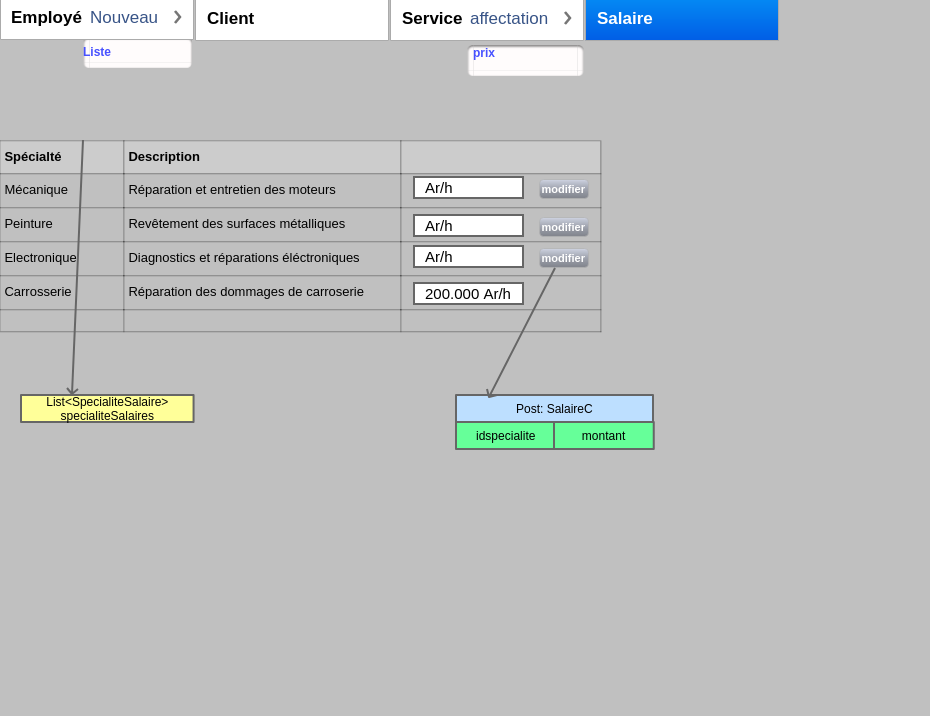
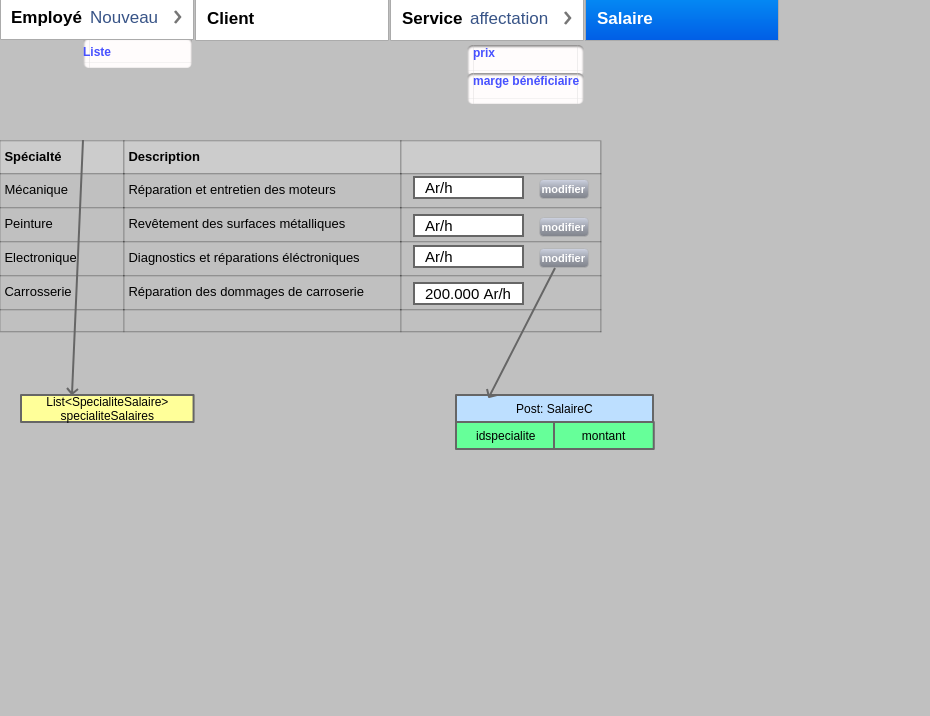
update conception 19/01

Changed region(s): [[0.4989, 0.0922, 0.6237, 0.1536]]

diff --git a/conception/metier.html b/conception/metier.html
@@ -5,7 +5,11 @@
 	<title></title>
 	<meta name="generator" content="LibreOffice 7.3.7.2 (Linux)"/>
 	<meta name="created" content="2023-01-17T16:00:40.041415322"/>
+<<<<<<< Updated upstream
 	<meta name="changed" content="2023-01-17T16:18:13.262707763"/>
+=======
+	<meta name="changed" content="2023-01-19T15:53:25.385682574"/>
+>>>>>>> Stashed changes
 	<style type="text/css">
 		@page { size: 8.5in 11in; margin: 0.79in }
 		p { line-height: 115%; margin-bottom: 0.1in; background: transparent }
@@ -21,8 +25,15 @@
 		h3.western { font-family: "Liberation Serif", serif; font-size: 14pt; font-weight: bold }
 		h3.cjk { font-family: "Noto Serif CJK SC"; font-size: 14pt; font-weight: bold }
 		h3.ctl { font-family: "Lohit Devanagari"; font-size: 14pt; font-weight: bold }
+<<<<<<< Updated upstream
 		a:link { color: #000080; so-language: zxx; text-decoration: underline }
 		a:visited { color: #800000; so-language: zxx; text-decoration: underline }
+=======
+		pre { background: transparent }
+		pre.western { font-family: "Liberation Mono", monospace; font-size: 10pt }
+		pre.cjk { font-family: "Noto Sans Mono CJK SC", monospace; font-size: 10pt }
+		pre.ctl { font-family: "Liberation Mono", monospace; font-size: 10pt }
+>>>>>>> Stashed changes
 		code.western { font-family: "Liberation Mono", monospace }
 		code.cjk { font-family: "Noto Sans Mono CJK SC", monospace }
 		code.ctl { font-family: "Liberation Mono", monospace }
@@ -227,10 +238,18 @@
 		<font color="#000000"><font face="apple-system, BlinkMacSystemFont, Segoe WPC, Segoe UI, system-ui, Ubuntu, Droid Sans, sans-serif"><font size="2" style="font-size: 10pt"><span style="background: transparent">public
 		Specialite findById(int idspecialite): retourner l'employé dont
 		id=idspecialite</span></font></font></font></p>
+<<<<<<< Updated upstream
 		<li><p style="orphans: 2; widows: 2"><span style="font-variant: normal"><font color="#000000"><font face="apple-system, BlinkMacSystemFont, Segoe WPC, Segoe UI, system-ui, Ubuntu, Droid Sans, sans-serif"><font size="2" style="font-size: 10pt"><span style="letter-spacing: normal"><span style="font-style: normal"><span style="font-weight: normal"><span style="background: transparent">public
 		List&lt;Specialite&gt; findByEmp(int idemp): prendre la liste des
 		spécialités dont idemploye=idemp dans la vue&nbsp;</span></span></span></span></font></font></font></span><code class="western"><span style="font-variant: normal"><font color="#000000"><font face="var vscode-editor-font-family, SF Mono, Monaco, Menlo, Consolas, Ubuntu Mono, Liberation Mono, DejaVu Sans Mono, Courier New, monospace"><font size="2" style="font-size: 10pt"><span style="letter-spacing: normal"><span style="font-style: normal"><span style="font-weight: normal"><span style="background: transparent">v_specialite_employe</span></span></span></span></font></font></font></span></code></p>
 		<li><p style="orphans: 2; widows: 2"><span style="font-variant: normal"><font color="#000000"><font face="apple-system, BlinkMacSystemFont, Segoe WPC, Segoe UI, system-ui, Ubuntu, Droid Sans, sans-serif"><font size="2" style="font-size: 10pt"><span style="letter-spacing: normal"><span style="font-style: normal"><span style="font-weight: normal"><span style="background: transparent">public
+=======
+		<li><p style="font-variant: normal; letter-spacing: normal; font-style: normal; font-weight: normal; orphans: 2; widows: 2">
+		<font color="#c9211e"><font face="apple-system, BlinkMacSystemFont, Segoe WPC, Segoe UI, system-ui, Ubuntu, Droid Sans, sans-serif"><font size="2" style="font-size: 10pt"><span style="background: transparent">public
+		List&lt;Specialite&gt; findByEmp(int idemp): prendre la liste des
+		spécialités dont idemploye=idemp</span></font></font></font></p>
+		<li><p style="orphans: 2; widows: 2"><span style="font-variant: normal"><font color="#c9211e"><font face="apple-system, BlinkMacSystemFont, Segoe WPC, Segoe UI, system-ui, Ubuntu, Droid Sans, sans-serif"><font size="2" style="font-size: 10pt"><span style="letter-spacing: normal"><span style="font-style: normal"><span style="font-weight: normal"><span style="background: transparent">public
+>>>>>>> Stashed changes
 		List&lt;Specialite&gt; findNotInEmp(int idemp): prendre toutes les
 		données de la table&nbsp;</span></span></span></span></font></font></font></span><code class="western"><span style="font-variant: normal"><font color="#000000"><font face="var vscode-editor-font-family, SF Mono, Monaco, Menlo, Consolas, Ubuntu Mono, Liberation Mono, DejaVu Sans Mono, Courier New, monospace"><font size="2" style="font-size: 10pt"><span style="letter-spacing: normal"><span style="font-style: normal"><span style="font-weight: normal"><span style="background: transparent">Specialite</span></span></span></span></font></font></font></span></code><span style="font-variant: normal"><font color="#000000"><font face="apple-system, BlinkMacSystemFont, Segoe WPC, Segoe UI, system-ui, Ubuntu, Droid Sans, sans-serif"><font size="2" style="font-size: 10pt"><span style="letter-spacing: normal"><span style="font-style: normal"><span style="font-weight: normal"><span style="background: transparent">&nbsp;qui
 		n'est pas dans la table&nbsp;</span></span></span></span></font></font></font></span><code class="western"><span style="font-variant: normal"><font color="#000000"><font face="var vscode-editor-font-family, SF Mono, Monaco, Menlo, Consolas, Ubuntu Mono, Liberation Mono, DejaVu Sans Mono, Courier New, monospace"><font size="2" style="font-size: 10pt"><span style="letter-spacing: normal"><span style="font-style: normal"><span style="font-weight: normal"><span style="background: transparent">SpecialiteEmploye</span></span></span></span></font></font></font></span></code><span style="font-variant: normal"><font color="#000000"><font face="apple-system, BlinkMacSystemFont, Segoe WPC, Segoe UI, system-ui, Ubuntu, Droid Sans, sans-serif"><font size="2" style="font-size: 10pt"><span style="letter-spacing: normal"><span style="font-style: normal"><span style="font-weight: normal"><span style="background: transparent">&nbsp;dont
@@ -506,6 +525,23 @@
 		findAll(): prendre la liste de toutes les données de la
 		table&nbsp;</span></span></span></span></font></font></font></span><code class="western"><span style="font-variant: normal"><font color="#000000"><font face="var vscode-editor-font-family, SF Mono, Monaco, Menlo, Consolas, Ubuntu Mono, Liberation Mono, DejaVu Sans Mono, Courier New, monospace"><font size="2" style="font-size: 10pt"><span style="letter-spacing: normal"><span style="font-style: normal"><span style="font-weight: normal"><span style="background: transparent">CategorieService</span></span></span></span></font></font></font></span></code></p>
 	</ul>
+	<li><p style="orphans: 2; widows: 2; margin-bottom: 0in"><code class="western"><span style="font-variant: normal"><font color="#000000"><font face="apple-system, BlinkMacSystemFont, Segoe WPC, Segoe UI, system-ui, Ubuntu, Droid Sans, sans-serif"><font size="2" style="font-size: 10pt"><span style="letter-spacing: normal"><span style="font-style: normal"><span style="font-weight: normal"><span style="background: transparent">MargeBeneficiaire</span></span></span></span></font></font></font></span></code></p>
+</ul>
+<ul>
+	<ul>
+		<li><p style="orphans: 2; widows: 2; margin-bottom: 0in"><span style="font-variant: normal"><font color="#ff0000"><font face="apple-system, BlinkMacSystemFont, Segoe WPC, Segoe UI, system-ui, Ubuntu, Droid Sans, sans-serif"><font size="2" style="font-size: 10pt"><span style="letter-spacing: normal"><span style="font-style: normal"><span style="font-weight: normal"><span style="background: transparent">MargeBeneficiaire
+		getByService(idserv): prendre les données de la
+		table&nbsp;</span></span></span></span></font></font></font></span><code class="western"><span style="font-variant: normal"><font color="#ff0000"><font face="var vscode-editor-font-family, SF Mono, Monaco, Menlo, Consolas, Ubuntu Mono, Liberation Mono, DejaVu Sans Mono, Courier New, monospace"><font size="2" style="font-size: 10pt"><span style="letter-spacing: normal"><span style="font-style: normal"><span style="font-weight: normal"><span style="background: transparent">MargeBeneficiaire</span></span></span></span></font></font></font></span></code><span style="font-variant: normal"><font color="#ff0000"><font face="apple-system, BlinkMacSystemFont, Segoe WPC, Segoe UI, system-ui, Ubuntu, Droid Sans, sans-serif"><font size="2" style="font-size: 10pt"><span style="letter-spacing: normal"><span style="font-style: normal"><span style="font-weight: normal"><span style="background: transparent">&nbsp;dont
+		idservice=idserv</span></span></span></span></font></font></font></span></p>
+		<pre class="western" style="orphans: 2; widows: 2; margin-bottom: 0.1in; border: none; padding: 0in"><code class="western"><span style="font-variant: normal"><font color="#ff0000"><font face="var vscode-editor-font-family, SF Mono, Monaco, Menlo, Consolas, Ubuntu Mono, Liberation Mono, DejaVu Sans Mono, Courier New, monospace"><font size="2" style="font-size: 10pt"><span style="letter-spacing: normal"><span style="font-style: normal"><span style="font-weight: normal"><span style="background: transparent">select * from margebeneficiaire where idservice=idserv order by datemodification desc limit 1</span></span></span></span></font></font></font></span></code></pre>
+		<li><p style="orphans: 2; widows: 2; margin-bottom: 0in"><span style="font-variant: normal"><font color="#ff0000"><font face="apple-system, BlinkMacSystemFont, Segoe WPC, Segoe UI, system-ui, Ubuntu, Droid Sans, sans-serif"><font size="2" style="font-size: 10pt"><span style="letter-spacing: normal"><span style="font-style: normal"><span style="font-weight: normal"><span style="background: transparent">void
+		create(): insérer dans la table&nbsp;</span></span></span></span></font></font></font></span><code class="western"><span style="font-variant: normal"><font color="#ff0000"><font face="var vscode-editor-font-family, SF Mono, Monaco, Menlo, Consolas, Ubuntu Mono, Liberation Mono, DejaVu Sans Mono, Courier New, monospace"><font size="2" style="font-size: 10pt"><span style="letter-spacing: normal"><span style="font-style: normal"><span style="font-weight: normal"><span style="background: transparent">MargeBeneficiaire</span></span></span></span></font></font></font></span></code></p>
+	</ul>
+</ul>
+<ul>
+	<ul>
+		<li><p style="orphans: 2; widows: 2; margin-bottom: 0in"></p>
+	</ul>
 	<li><p style="font-variant: normal; letter-spacing: normal; font-style: normal; font-weight: normal; orphans: 2; widows: 2">
 	<font color="#000000"><font face="apple-system, BlinkMacSystemFont, Segoe WPC, Segoe UI, system-ui, Ubuntu, Droid Sans, sans-serif"><font size="2" style="font-size: 10pt"><span style="background: transparent">Service</span></font></font></font></p>
 	<ul>
@@ -513,6 +549,17 @@
 		<font color="#000000"><font face="apple-system, BlinkMacSystemFont, Segoe WPC, Segoe UI, system-ui, Ubuntu, Droid Sans, sans-serif"><font size="2" style="font-size: 10pt"><span style="background: transparent">List&lt;Service&gt;
 		findByCategorie(int idctg): liste de toutes les services dont
 		idcategorie=idctg</span></font></font></font></p>
+		<li><p style="font-variant: normal; letter-spacing: normal; font-style: normal; font-weight: normal; line-height: 100%; orphans: 2; widows: 2; margin-bottom: 0in; background: transparent">
+		<font color="#ff0000"><font face="Droid Sans Mono, monospace, monospace"><font size="2" style="font-size: 10pt"><span style="background: transparent">List\&lt;Service&gt;
+		findAll(): liste de toutes les services</span></font></font></font></p>
+		<ul>
+			<li><p style="font-variant: normal; letter-spacing: normal; font-style: normal; font-weight: normal; line-height: 100%; orphans: 2; widows: 2; margin-bottom: 0in; background: transparent">
+			<font color="#ff0000"><font face="Droid Sans Mono, monospace, monospace"><font size="2" style="font-size: 10pt"><span style="background: transparent">setMargeBeneficiaire(new
+			MargeBeneficiaire().getByService(idservice)) : rehefa misesy amle
+			liste services</span></font></font></font></p>
+			<p style="font-variant: normal; letter-spacing: normal; font-style: normal; font-weight: normal; orphans: 2; widows: 2; margin-bottom: 0in">
+			</p>
+		</ul>
 	</ul>
 	<li><p style="font-variant: normal; letter-spacing: normal; font-style: normal; font-weight: normal; orphans: 2; widows: 2">
 	<font color="#000000"><font face="apple-system, BlinkMacSystemFont, Segoe WPC, Segoe UI, system-ui, Ubuntu, Droid Sans, sans-serif"><font size="2" style="font-size: 10pt"><span style="background: transparent">SpecialiteEmploye</span></font></font></font></p>
@@ -536,13 +583,25 @@
 		<font color="#000000"><font face="apple-system, BlinkMacSystemFont, Segoe WPC, Segoe UI, system-ui, Ubuntu, Droid Sans, sans-serif"><font size="2" style="font-size: 10pt"><span style="background: transparent">create():
 		insertion de salaire pour une spécialité</span></font></font></font></p>
 	</ul>
-	<li><p style="font-variant: normal; letter-spacing: normal; font-style: normal; font-weight: normal; orphans: 2; widows: 2">
-	<font color="#000000"><font face="apple-system, BlinkMacSystemFont, Segoe WPC, Segoe UI, system-ui, Ubuntu, Droid Sans, sans-serif"><font size="2" style="font-size: 10pt"><span style="background: transparent">PrixService</span></font></font></font></p>
+</ul>
+<ul>
+	<li><p style="orphans: 2; widows: 2"><span style="font-variant: normal"><font color="#000000"><font face="apple-system, BlinkMacSystemFont, Segoe WPC, Segoe UI, system-ui, Ubuntu, Droid Sans, sans-serif"><font size="2" style="font-size: 10pt"><span style="letter-spacing: normal"><span style="font-style: normal"><span style="font-weight: normal"><span style="background: transparent">PrixService</span></span></span></span></font></font></font></span></p>
 	<ul>
 		<li><p style="font-variant: normal; letter-spacing: normal; font-style: normal; font-weight: normal; orphans: 2; widows: 2; margin-bottom: 0in">
+<<<<<<< Updated upstream
 		<font color="#000000"><font face="apple-system, BlinkMacSystemFont, Segoe WPC, Segoe UI, system-ui, Ubuntu, Droid Sans, sans-serif"><font size="2" style="font-size: 10pt"><span style="background: transparent">List&lt;PrixService&gt;
+=======
+		<font color="#ff0000"><font face="apple-system, BlinkMacSystemFont, Segoe WPC, Segoe UI, system-ui, Ubuntu, Droid Sans, sans-serif"><font size="2" style="font-size: 10pt"><span style="background: transparent">List&lt;PrixService&gt;
+>>>>>>> Stashed changes
 		findByPrixCtg(String ctg): liste de toutes les données de la vue
-		(view) v_prix_service dont categorie_prix = ctg</span></font></font></font></p>
+		(view)... dont categorie_prix = ctg</span></font></font></font></p>
+		<ul>
+			<li><p style="font-variant: normal; letter-spacing: normal; font-style: normal; font-weight: normal; orphans: 2; widows: 2; margin-bottom: 0in">
+			<font color="#ff0000"><font face="apple-system, BlinkMacSystemFont, Segoe WPC, Segoe UI, system-ui, Ubuntu, Droid Sans, sans-serif"><font size="2" style="font-size: 10pt"><span style="background: transparent">Ilay
+			ctg ataovy anarana view: (charge_salariale, charge_materiel ,
+			charge_totale , prix_vente , benefice)</span></font></font></font></p>
+		</ul>
+		<pre class="western" style="orphans: 2; widows: 2; margin-bottom: 0.1in; border: none; padding: 0in"><code class="western"><span style="font-variant: normal"><font color="#ff0000"><font face="var vscode-editor-font-family, SF Mono, Monaco, Menlo, Consolas, Ubuntu Mono, Liberation Mono, DejaVu Sans Mono, Courier New, monospace"><font size="2" style="font-size: 10pt"><span style="letter-spacing: normal"><span style="font-style: normal"><span style="font-weight: normal"><span style="background: transparent">Select * from ctg;</span></span></span></span></font></font></font></span></code></pre>
 	</ul>
 </ul>
 <p><br/>

diff --git a/conception/index.html b/conception/index.html
@@ -1,0 +1,2 @@
+<html xmlns="http://www.w3.org/1999/xhtml" xmlns:p="http://www.evolus.vn/Namespace/Pencil" xmlns:html="http://www.w3.org/1999/xhtml"><head><meta http-equiv="Content-Type" content="text/html; charset=UTF-8" />
+<title>front</title><link rel="stylesheet" href="Resources/SampleStyle.css" /></head><body><h1 id="documentTitle">front</h1><p id="documentMetadata">Exported at: Thu Jan 19 2023 15:54:58 GMT+0300 (East Africa Time)</p><div class="Page" id="responsable_page"><h2>Responsable</h2><div class="ImageContainer"><img src="pages/responsable.png" width="NaN" height="NaN" usemap="#map_responsable" /></div><map name="map_responsable"><area shape="rect" coords="466.6000061035156,87,582.5,117.800003051758" href="#marge_beneficiaire_page" title="Go to page 'Marge beneficiaire'" /><area shape="rect" coords="584.5,0.5,777.5,44.5" href="#salaire_page" title="Go to page 'salaire'" /><area shape="rect" coords="466.6000061035156,49,582.5,79.8000030517578" href="#prix_service_page" title="Go to page 'prix service'" /><area shape="rect" coords="389.5,0.5,582.5,44.5" href="#affectation_service_page" title="Go to page 'affectation service'" /><area shape="rect" coords="194.5,0.5,387.5,44.5" href="#client_page" title="Go to page 'Client'" /><area shape="rect" coords="-0.5,-0.5,192.5,43.5" href="#newemp_page" title="Go to page 'new_emp'" /><area shape="rect" coords="82.60000610351562,41,191,71.8000030517578" href="#listemp_page" title="Go to page 'list_emp'" /></map></div><div class="Page" id="login_page"><h2>login</h2><div class="ImageContainer"><img src="pages/login.png" width="NaN" height="NaN" usemap="#map_login" /></div><map name="map_login"><area shape="rect" coords="108.5,446.5,362.75,486.5" href="#newemp_page" title="Go to page 'new_emp'" /></map></div><div class="Page" id="newemp_page"><h2>new_emp</h2><div class="ImageContainer"><img src="pages/newemp.png" width="NaN" height="NaN" usemap="#map_newemp" /></div><map name="map_newemp"><area shape="rect" coords="460.6000061035156,63,576.5,93.8000030517578" href="#marge_beneficiaire_page" title="Go to page 'Marge beneficiaire'" /><area shape="rect" coords="580.5,1.5,773.5,45.5" href="#salaire_page" title="Go to page 'salaire'" /><area shape="rect" coords="462.60003662109375,50,578.500061035156,80.8000030517578" href="#prix_service_page" title="Go to page 'prix service'" /><area shape="rect" coords="385.5,1.5,578.5,45.5" href="#affectation_service_page" title="Go to page 'affectation service'" /><area shape="rect" coords="190.5,1.5,383.5,45.5" href="#client_page" title="Go to page 'Client'" /><area shape="rect" coords="78.60000610351562,42,187,72.8000030517578" href="#listemp_page" title="Go to page 'list_emp'" /><area shape="rect" coords="14.5,535.5,119.75,558.5" href="#listemp_page" title="Go to page 'list_emp'" /></map></div><div class="Page" id="listemp_page"><h2>list_emp</h2><div class="ImageContainer"><img src="pages/listemp.png" width="NaN" height="NaN" usemap="#map_listemp" /></div><map name="map_listemp"><area shape="rect" coords="462.6000061035156,92,578.5,122.800003051758" href="#marge_beneficiaire_page" title="Go to page 'Marge beneficiaire'" /><area shape="rect" coords="581.5,1.5,774.5,45.5" href="#salaire_page" title="Go to page 'salaire'" /><area shape="rect" coords="463.6000061035156,50,579.5,80.8000030517578" href="#prix_service_page" title="Go to page 'prix service'" /><area shape="rect" coords="386.5,1.5,579.5,45.5" href="#affectation_service_page" title="Go to page 'affectation service'" /><area shape="rect" coords="191.5,1.5,384.5,45.5" href="#client_page" title="Go to page 'Client'" /><area shape="rect" coords="79.60000610351562,42,188,72.8000030517578" href="#newemp_page" title="Go to page 'new_emp'" /><area shape="rect" coords="456,176,494,194" href="#detailsemp_page" title="Go to page 'details_emp'" /></map></div><div class="Page" id="detailsemp_page"><h2>details_emp</h2><div class="ImageContainer"><img src="pages/detailsemp.png" width="NaN" height="NaN" usemap="#map_detailsemp" /></div><map name="map_detailsemp"><area shape="rect" coords="83.60000610351562,37,192,67.8000030517578" href="#newemp_page" title="Go to page 'new_emp'" /><area shape="rect" coords="0.5,-4.5,193.5,39.5" href="#listemp_page" title="Go to page 'list_emp'" /><area shape="rect" coords="585.5,-4.5,778.5,39.5" href="#salaire_page" title="Go to page 'salaire'" /><area shape="rect" coords="467.6000061035156,44,583.5,74.8000030517578" href="#prix_service_page" title="Go to page 'prix service'" /><area shape="rect" coords="390.5,-4.5,583.5,39.5" href="#affectation_service_page" title="Go to page 'affectation service'" /><area shape="rect" coords="195.5,-4.5,388.5,39.5" href="#client_page" title="Go to page 'Client'" /></map></div><div class="Page" id="client_page"><h2>Client</h2><div class="ImageContainer"><img src="pages/client.png" width="NaN" height="NaN" usemap="#map_client" /></div><map name="map_client"><area shape="rect" coords="468.6000061035156,73,584.5,103.800003051758" href="#marge_beneficiaire_page" title="Go to page 'Marge beneficiaire'" /><area shape="rect" coords="580.5,-2.5,773.5,41.5" href="#salaire_page" title="Go to page 'salaire'" /><area shape="rect" coords="462.6000061035156,46,578.5,76.8000030517578" href="#prix_service_page" title="Go to page 'prix service'" /><area shape="rect" coords="385.5,-2.5,578.5,41.5" href="#affectation_service_page" title="Go to page 'affectation service'" /><area shape="rect" coords="190.5,-2.5,383.5,41.5" href="#client_page" title="Go to page 'Client'" /><area shape="rect" coords="-4.5,-3.5,188.5,40.5" href="#newemp_page" title="Go to page 'new_emp'" /><area shape="rect" coords="78.60000610351562,38,187,68.8000030517578" href="#listemp_page" title="Go to page 'list_emp'" /></map></div><div class="Page" id="affectation_service_page"><h2>affectation service</h2><div class="ImageContainer"><img src="pages/affectation_service.png" width="NaN" height="NaN" usemap="#map_affectation_service" /></div><map name="map_affectation_service"><area shape="rect" coords="467.6000061035156,71,583.5,101.800003051758" href="#marge_beneficiaire_page" title="Go to page 'Marge beneficiaire'" /><area shape="rect" coords="585.5,-3.5,778.5,40.5" href="#salaire_page" title="Go to page 'salaire'" /><area shape="rect" coords="467.6000061035156,45,583.5,75.8000030517578" href="#prix_service_page" title="Go to page 'prix service'" /><area shape="rect" coords="390.5,-3.5,583.5,40.5" href="#affectation_service_page" title="Go to page 'affectation service'" /><area shape="rect" coords="195.5,-3.5,388.5,40.5" href="#client_page" title="Go to page 'Client'" /><area shape="rect" coords="0.5,-4.5,193.5,39.5" href="#newemp_page" title="Go to page 'new_emp'" /><area shape="rect" coords="83.60000610351562,37,192,67.8000030517578" href="#listemp_page" title="Go to page 'list_emp'" /></map></div><div class="Page" id="prix_service_page"><h2>prix service</h2><div class="ImageContainer"><img src="pages/prix_service.png" width="NaN" height="NaN" usemap="#map_prix_service" /></div><map name="map_prix_service"><area shape="rect" coords="472.6000061035156,84,588.5,114.800003051758" href="#marge_beneficiaire_page" title="Go to page 'Marge beneficiaire'" /><area shape="rect" coords="640.5,1.5,833.5,45.5" href="#salaire_page" title="Go to page 'salaire'" /><area shape="rect" coords="466.6000061035156,51,582.5,81.8000030517578" href="#affectation_service_page" title="Go to page 'affectation service'" /><area shape="rect" coords="194.5,2.5,387.5,46.5" href="#client_page" title="Go to page 'Client'" /><area shape="rect" coords="-0.5,1.5,192.5,45.5" href="#newemp_page" title="Go to page 'new_emp'" /><area shape="rect" coords="82.60000610351562,43,191,73.8000030517578" href="#listemp_page" title="Go to page 'list_emp'" /></map></div><div class="Page" id="salaire_page"><h2>salaire</h2><div class="ImageContainer"><img src="pages/salaire.png" width="NaN" height="NaN" usemap="#map_salaire" /></div><map name="map_salaire"><area shape="rect" coords="467.6000061035156,73,583.5,103.800003051758" href="#marge_beneficiaire_page" title="Go to page 'Marge beneficiaire'" /><area shape="rect" coords="585.5,-3.5,778.5,40.5" href="#salaire_page" title="Go to page 'salaire'" /><area shape="rect" coords="467.6000061035156,45,583.5,75.8000030517578" href="#prix_service_page" title="Go to page 'prix service'" /><area shape="rect" coords="390.5,-3.5,583.5,40.5" href="#affectation_service_page" title="Go to page 'affectation service'" /><area shape="rect" coords="195.5,-3.5,388.5,40.5" href="#client_page" title="Go to page 'Client'" /><area shape="rect" coords="0.5,-4.5,193.5,39.5" href="#newemp_page" title="Go to page 'new_emp'" /><area shape="rect" coords="83.60000610351562,37,192,67.8000030517578" href="#listemp_page" title="Go to page 'list_emp'" /></map></div><div class="Page" id="marge_beneficiaire_page"><h2>Marge beneficiaire</h2><div class="ImageContainer"><img src="pages/marge_beneficiaire.png" width="NaN" height="NaN" usemap="#map_marge_beneficiaire" /></div><map name="map_marge_beneficiaire"><area shape="rect" coords="455.6000061035156,83,571.5,113.800003051758" href="#prix_service_page" title="Go to page 'prix service'" /><area shape="rect" coords="629.5,1.5,822.5,45.5" href="#salaire_page" title="Go to page 'salaire'" /><area shape="rect" coords="455.6000061035156,51,571.5,81.8000030517578" href="#affectation_service_page" title="Go to page 'affectation service'" /><area shape="rect" coords="183.5,2.5,376.5,46.5" href="#client_page" title="Go to page 'Client'" /><area shape="rect" coords="-11.5,1.5,181.5,45.5" href="#newemp_page" title="Go to page 'new_emp'" /><area shape="rect" coords="71.60000610351562,43,180,73.8000030517578" href="#listemp_page" title="Go to page 'list_emp'" /></map></div></body></html>

diff --git a/conception/database_todo.html b/conception/database_todo.html
@@ -5,14 +5,16 @@
 	<title></title>
 	<meta name="generator" content="LibreOffice 7.3.7.2 (Linux)"/>
 	<meta name="created" content="2023-01-17T16:00:40.041415322"/>
-	<meta name="changed" content="2023-01-17T16:17:48.197671131"/>
+	<meta name="changed" content="2023-01-19T15:56:58.981670680"/>
 	<style type="text/css">
 		@page { size: 8.5in 11in; margin: 0.79in }
-		p { line-height: 115%; margin-bottom: 0.1in; background: transparent }
-		h2 { margin-top: 0.14in; margin-bottom: 0.08in; background: transparent; page-break-after: avoid }
+		p { line-height: 115%; margin-bottom: 0.1in; background: transparent; background: transparent }
+		h2 { margin-top: 0.14in; margin-bottom: 0.08in; background: transparent; background: transparent; page-break-after: avoid }
 		h2.western { font-family: "Liberation Serif", serif; font-size: 18pt; font-weight: bold }
 		h2.cjk { font-family: "Noto Serif CJK SC"; font-size: 18pt; font-weight: bold }
 		h2.ctl { font-family: "Lohit Devanagari"; font-size: 18pt; font-weight: bold }
+		a:link { color: #000080; so-language: zxx; text-decoration: underline }
+		a:visited { color: #800000; so-language: zxx; text-decoration: underline }
 	</style>
 </head>
 <body lang="en-US" link="#000080" vlink="#800000" dir="ltr"><h2 class="western" style="font-variant: normal; letter-spacing: normal; font-style: normal; font-weight: normal">
@@ -248,7 +250,21 @@
 		<li><p style="font-variant: normal; letter-spacing: normal; font-style: normal; font-weight: normal; orphans: 2; widows: 2; margin-bottom: 0in">
 		<font color="#000000"><font face="apple-system, BlinkMacSystemFont, Segoe WPC, Segoe UI, system-ui, Ubuntu, Droid Sans, sans-serif"><font size="2" style="font-size: 10pt"><span style="background: transparent">v_charge_totale</span></font></font></font></p>
 	</ul>
+	<li><p style="font-variant: normal; letter-spacing: normal; font-style: normal; font-weight: normal; orphans: 2; widows: 2">
+	<font color="#000000"><font face="apple-system, BlinkMacSystemFont, Segoe WPC, Segoe UI, system-ui, Ubuntu, Droid Sans, sans-serif"><font size="2" style="font-size: 10pt"><span style="background: transparent">v_prix_vente:</span></font></font></font></p>
+	<ul>
+		<li><p style="font-variant: normal; letter-spacing: normal; font-style: normal; font-weight: normal; orphans: 2; widows: 2; margin-bottom: 0in">
+		<font color="#000000"><font face="apple-system, BlinkMacSystemFont, Segoe WPC, Segoe UI, system-ui, Ubuntu, Droid Sans, sans-serif"><font size="2" style="font-size: 10pt"><span style="background: transparent">calculer:vente.montant
+		– charge.montant</span></font></font></font></p>
+		<li><p style="font-variant: normal; letter-spacing: normal; font-style: normal; font-weight: normal; orphans: 2; widows: 2; margin-bottom: 0in">
+		<font color="#000000"><font face="apple-system, BlinkMacSystemFont, Segoe WPC, Segoe UI, system-ui, Ubuntu, Droid Sans, sans-serif"><font size="2" style="font-size: 10pt"><span style="background: transparent">v_charge_totale
+		charge + v_prix_vente vente</span></font></font></font></p>
+	</ul>
 </ul>
+<p style="font-variant: normal; letter-spacing: normal; font-style: normal; font-weight: normal; orphans: 2; widows: 2; margin-bottom: 0in">
+<br/>
+
+</p>
 <p style="line-height: 100%; margin-bottom: 0in"><br/>
 
 </p>
